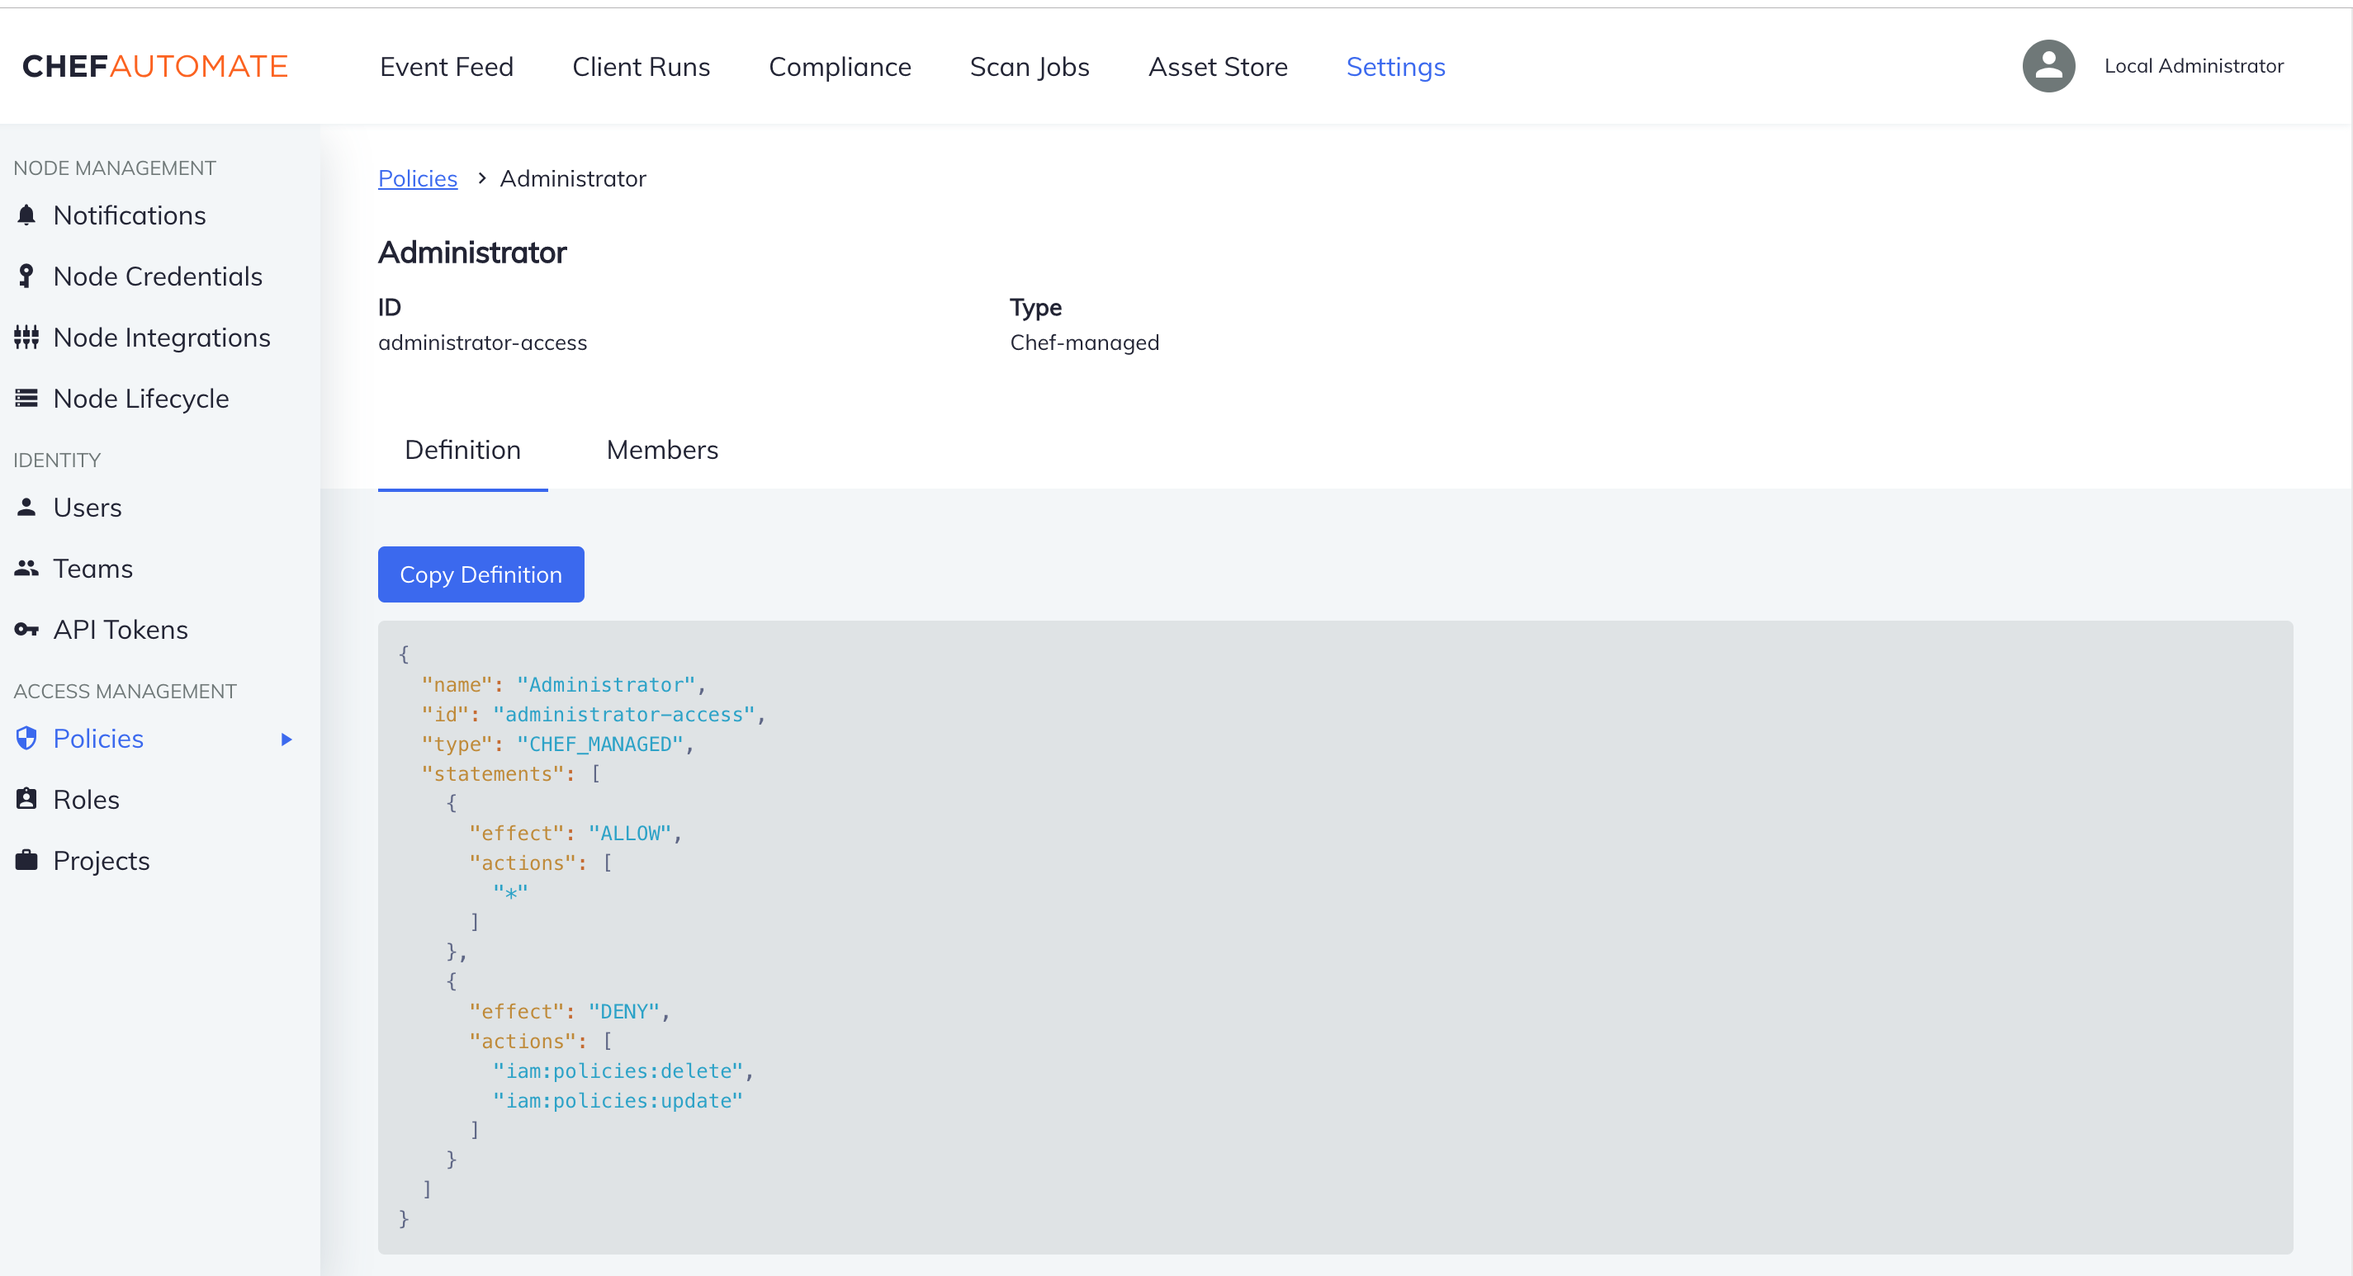
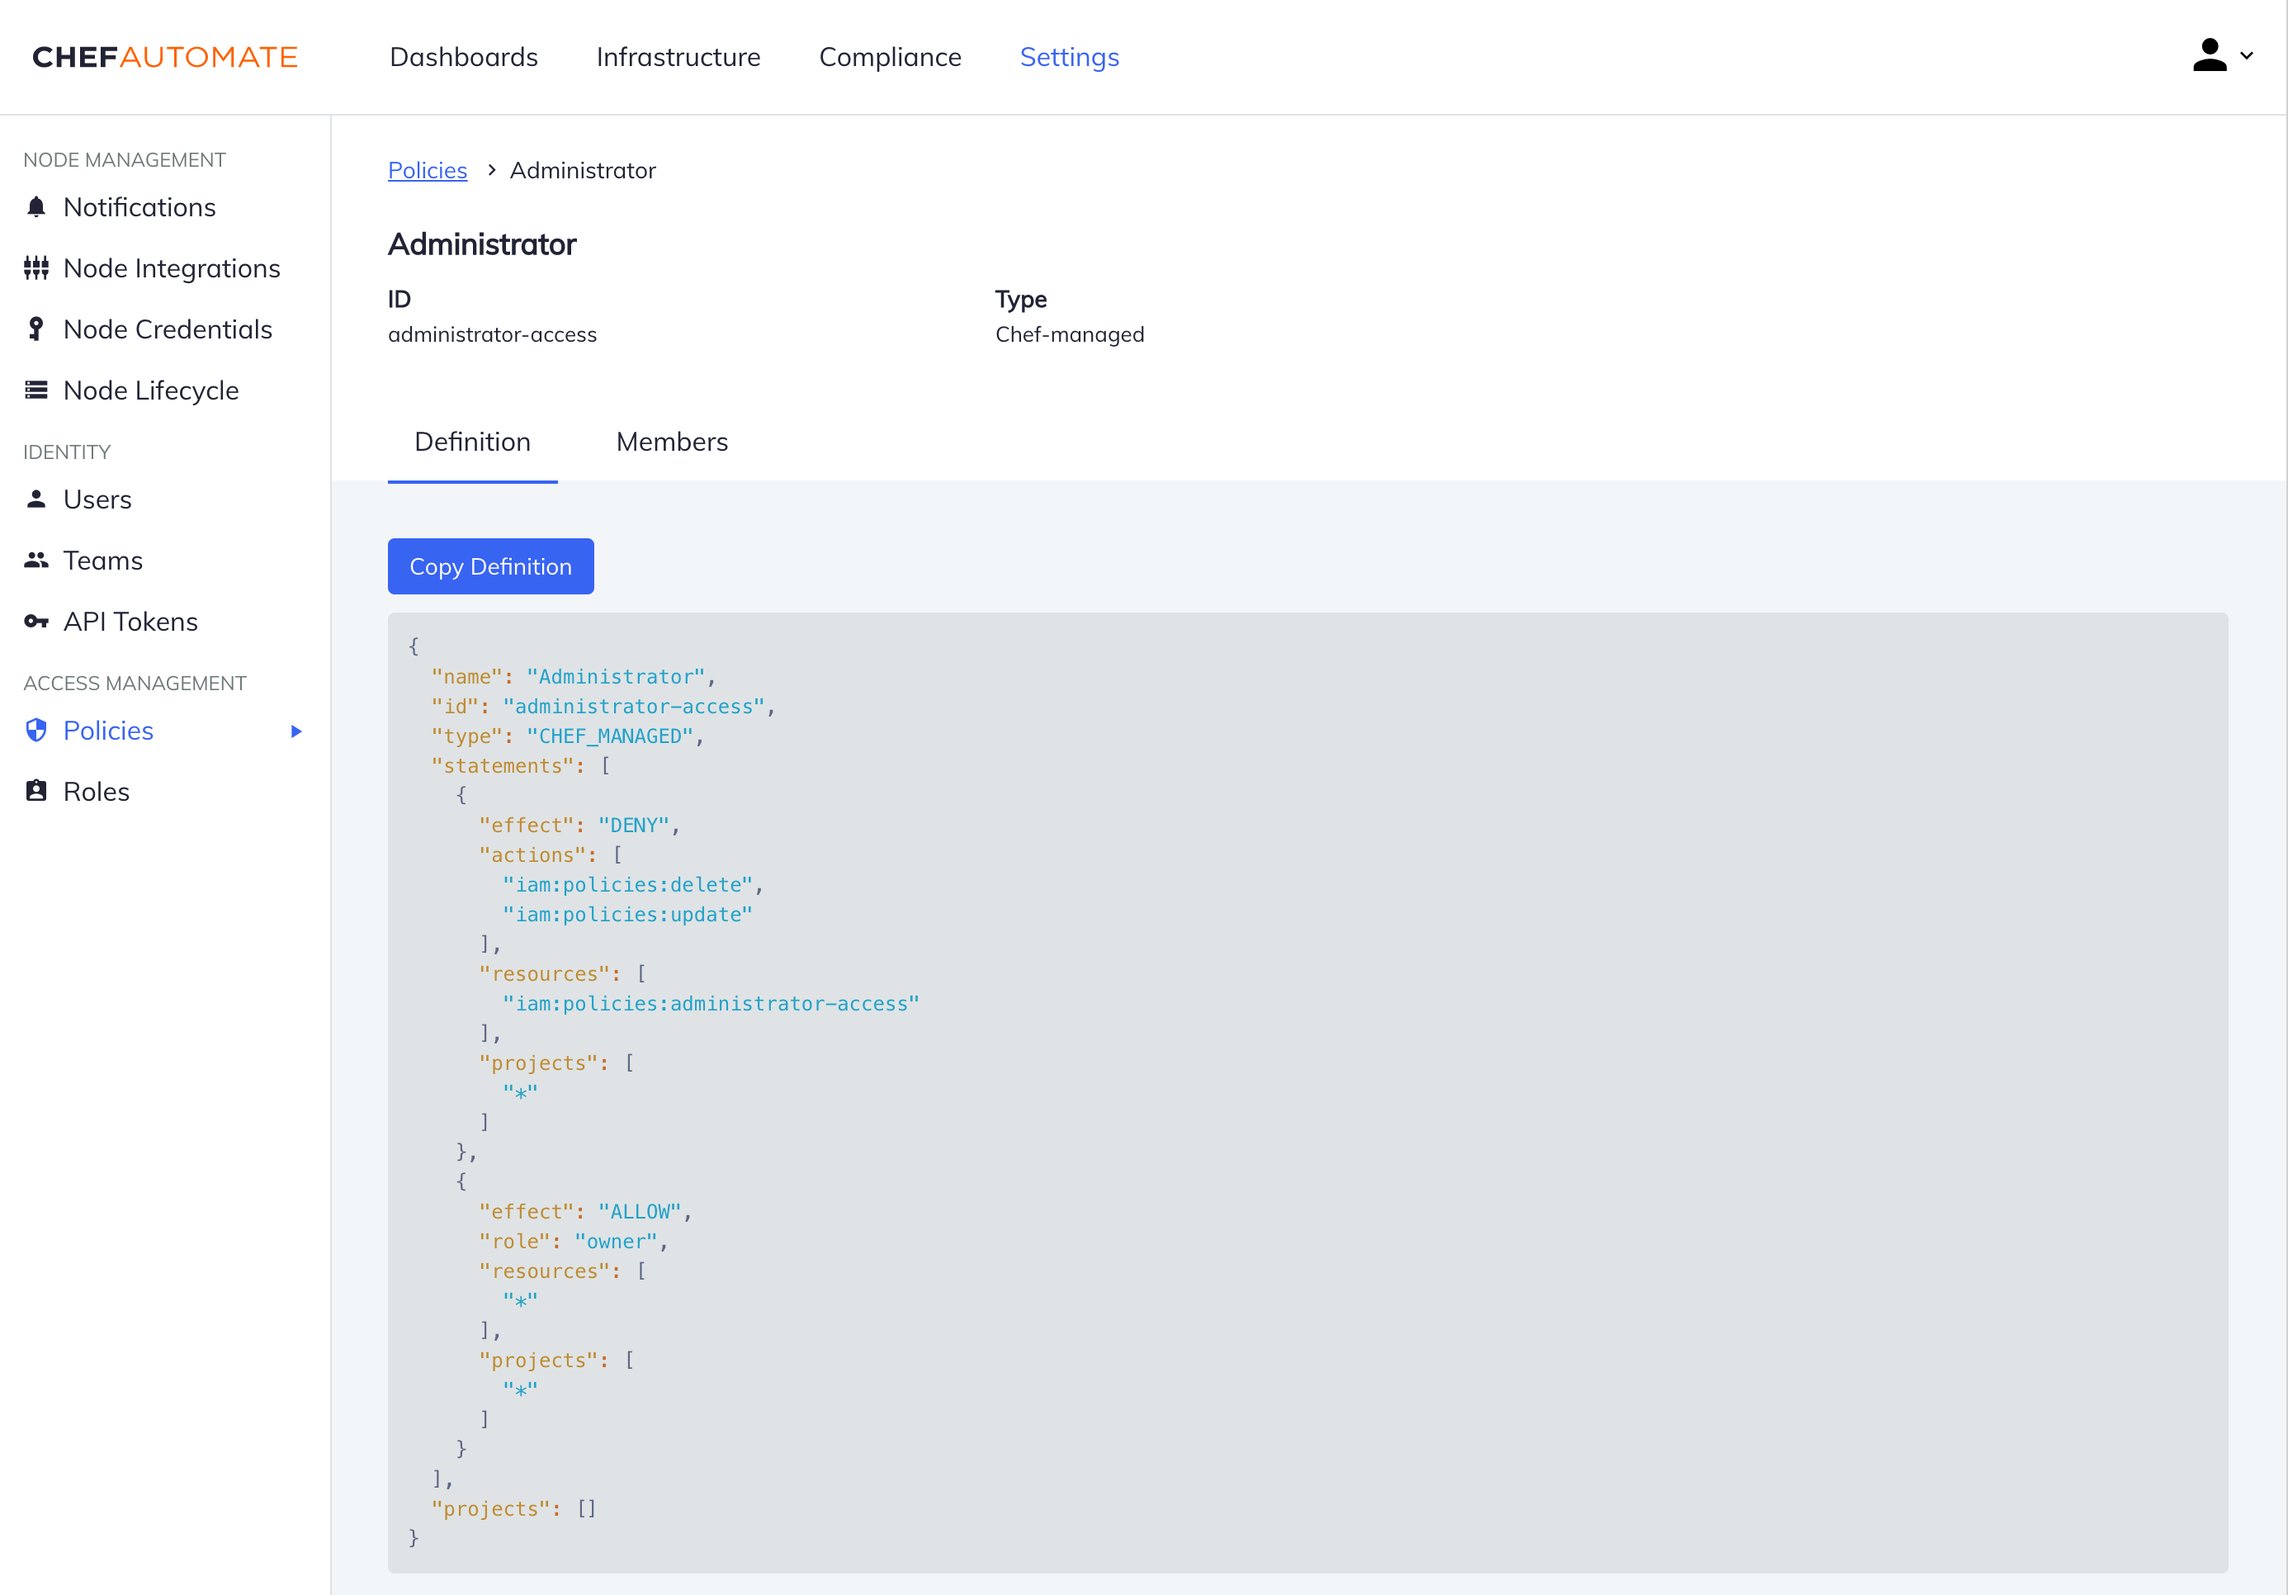
[authz 1667] Use owner role for admin policy (#1681)
* Use owner role for admin policy

* Update docs image

diff --git a/components/authz-service/storage/postgres/datamigration/sql/README.md b/components/authz-service/storage/postgres/datamigration/sql/README.md
@@ -9,3 +9,4 @@
 - [`07_update_v2_roles.up.sql`](07_update_v2_roles.up.sql)
 - [`08_update_v2_projects.up.sql`](08_update_v2_projects.up.sql)
 - [`09_update_project_admin.up.sql`](09_update_project_admin.up.sql)
+- [`10_add_owner_role_to_admin_pol.up.sql`](10_add_owner_role_to_admin_pol.up.sql)
